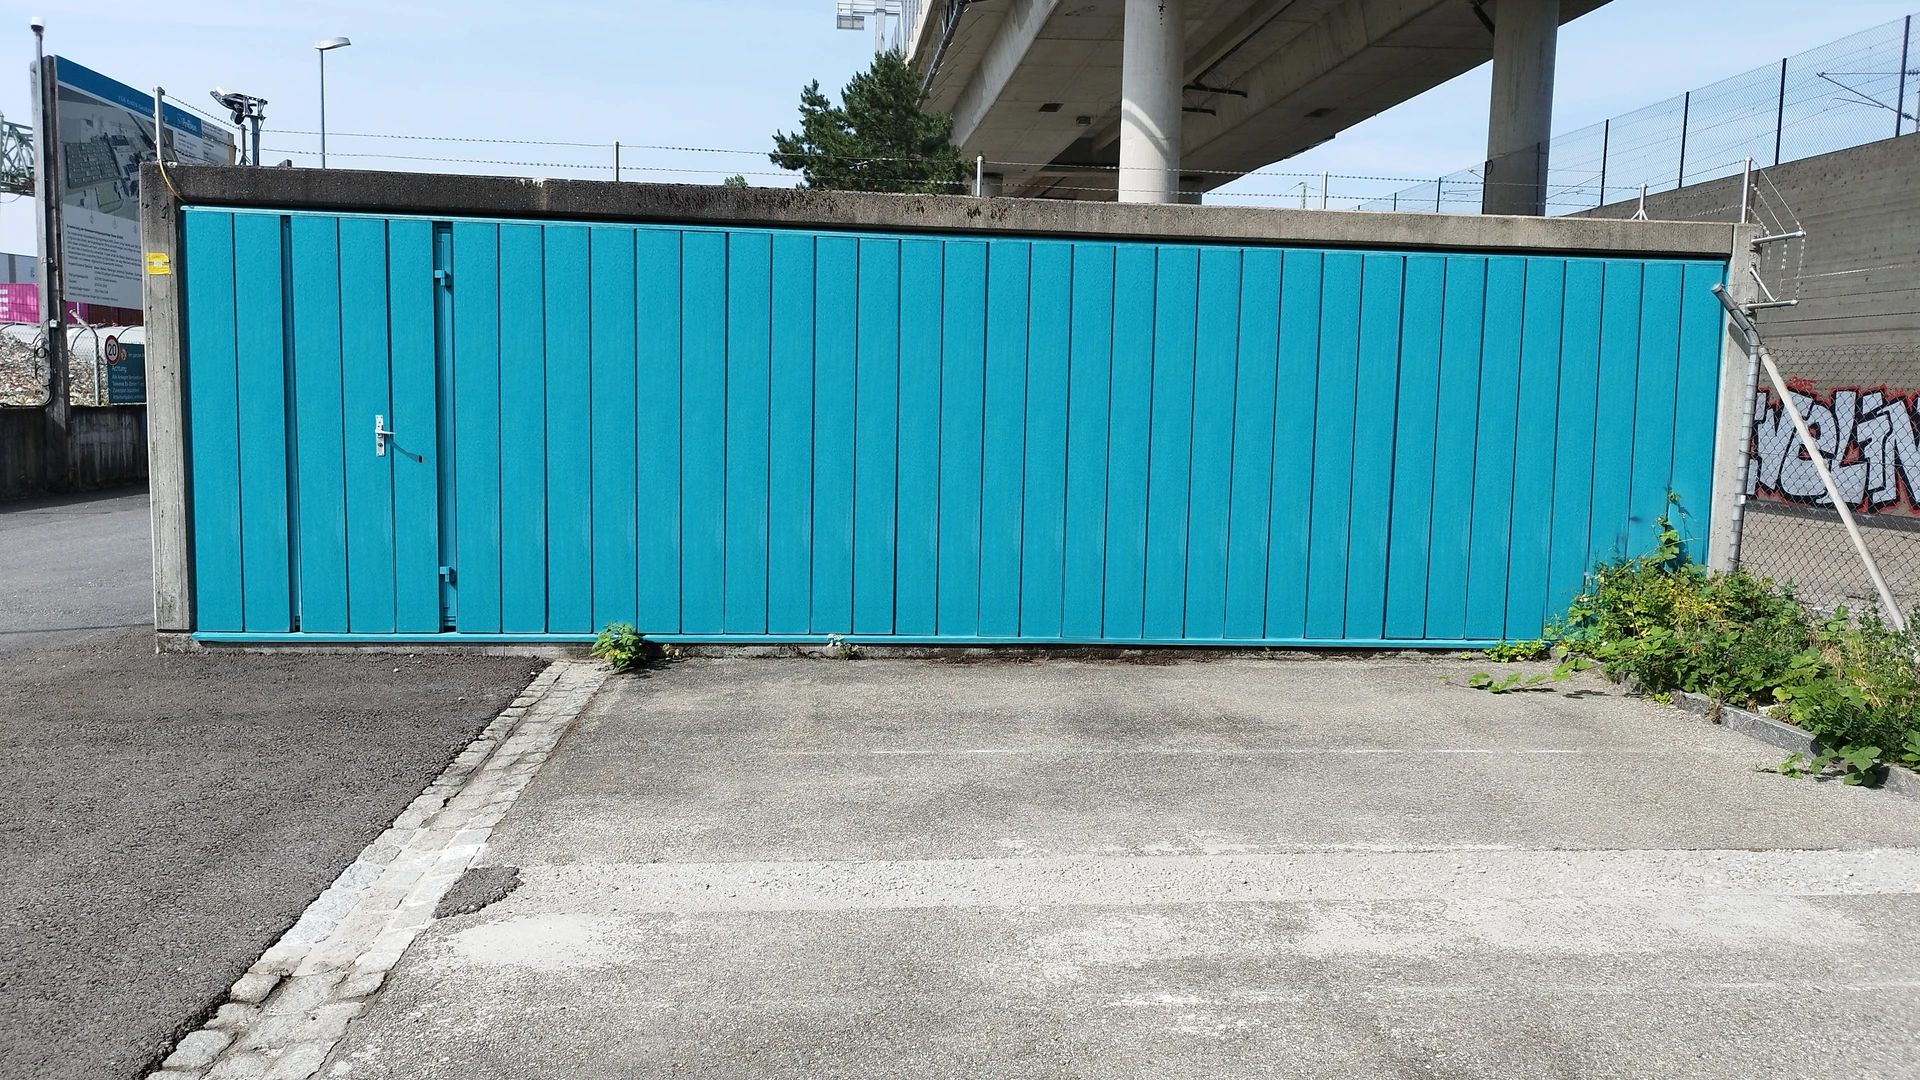
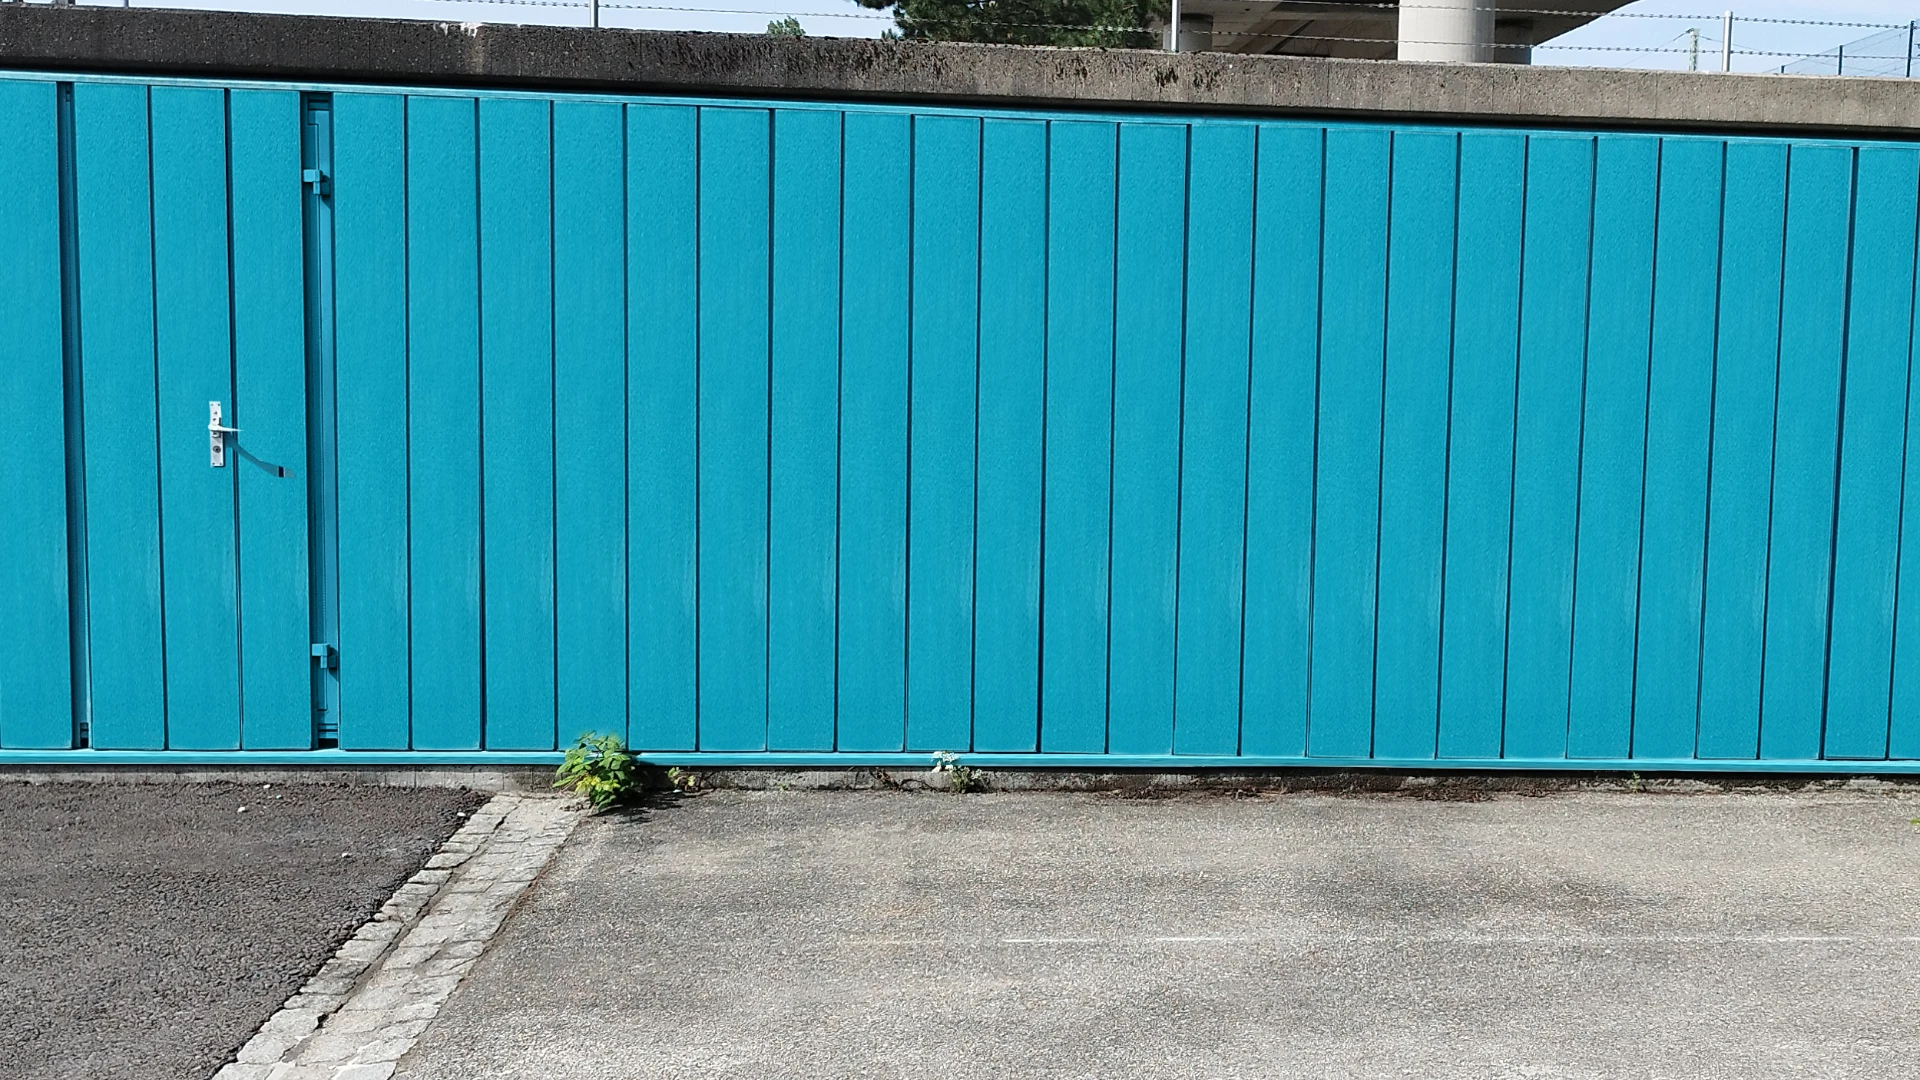
fix: publish reco112 through direct hero workflow

diff --git a/image-editor-config.js b/image-editor-config.js
@@ -199,6 +199,98 @@ window.RECOLORO_IMAGE_EDITOR_CONFIG = {
         "exportPreviewChecked": true,
         "technicalApproved": true
       }
+    },
+    "reco-112": {
+      "sourceOrientation": null,
+      "alignment": {
+        "reference": "after",
+        "simple": {
+          "before": {
+            "x": 0,
+            "y": 0,
+            "scale": 1,
+            "rotation": 0
+          },
+          "after": {
+            "x": 0,
+            "y": 0,
+            "scale": 1,
+            "rotation": 0
+          }
+        },
+        "perspective": {
+          "enabled": false,
+          "pointOrder": [
+            "top-left",
+            "top-right",
+            "bottom-right",
+            "bottom-left"
+          ],
+          "before": [
+            {
+              "x": 0.1,
+              "y": 0.1
+            },
+            {
+              "x": 0.9,
+              "y": 0.1
+            },
+            {
+              "x": 0.9,
+              "y": 0.9
+            },
+            {
+              "x": 0.1,
+              "y": 0.9
+            }
+          ],
+          "after": [
+            {
+              "x": 0.1,
+              "y": 0.1
+            },
+            {
+              "x": 0.9,
+              "y": 0.1
+            },
+            {
+              "x": 0.9,
+              "y": 0.9
+            },
+            {
+              "x": 0.1,
+              "y": 0.9
+            }
+          ],
+          "gridSize": 16
+        }
+      },
+      "anonymization": {
+        "masks": [
+          {
+            "id": "mask-1787690079339",
+            "label": "Neue Maske",
+            "type": "blur",
+            "scope": "both",
+            "x": 0.4243035660009906,
+            "y": 0.05383874816308781,
+            "width": 0.08695970694682098,
+            "height": 0.0996161404131928,
+            "color": "#687275",
+            "pixelSize": 24,
+            "blurRadius": 28
+          }
+        ]
+      },
+      "workflow": {
+        "orientationChecked": true,
+        "alignmentChecked": false,
+        "anonymizationChecked": true,
+        "desktopCropChecked": true,
+        "mobileCropChecked": true,
+        "exportPreviewChecked": true,
+        "technicalApproved": true
+      }
     }
   }
 };

diff --git a/bildausschnitt-editor.html b/bildausschnitt-editor.html
@@ -187,7 +187,7 @@
     <section class="panel workflow">
       <h2>Übernahme in die lokale Website</h2>
       <p>Am lokalen Pilotserver speichert der Hauptknopf die vier WebP-Dateien und beide Konfigurationen direkt in den richtigen Website-Pfaden. Ordnerfreigabe und Downloads sind nur noch bewusste Ausweichmöglichkeiten, falls der lokale Speicherdienst nicht erreichbar ist.</p>
-      <div class="actions"><button type="button" class="primary" id="saveApply">Direkt speichern und Website aktualisieren</button><button type="button" id="downloadFallback">Nur als Dateien herunterladen (Fallback)</button><button type="button" id="reset">Änderungen am ausgewählten Paar verwerfen</button></div>
+      <div class="actions"><button type="button" class="primary" id="saveApply">Speichern und in Website übernehmen</button><button type="button" id="downloadFallback">Dateien herunterladen (nur Notfall-Fallback)</button><button type="button" id="reset">Änderungen am ausgewählten Paar verwerfen</button></div>
       <div class="output" id="workflowOutput" aria-live="polite"></div>
     </section>
   </main>

diff --git a/bildausschnitt-editor.js b/bildausschnitt-editor.js
@@ -1256,10 +1256,11 @@ async function detectLocalSaveApi(silent = false) {
     localSaveAvailable = false;
   }
   elements.chooseRoot.hidden = localSaveAvailable;
+  elements.downloadFallback.hidden = localSaveAvailable;
   if (!silent) {
     setRootStatus(
       localSaveAvailable
-        ? 'Direkte lokale Speicherung bereit'
+        ? 'Direkte lokale Speicherung bereit · Hauptknopf schreibt ohne Downloads in die Website'
         : 'Direkte Speicherung nicht erreichbar – Ordnerfreigabe oder Download-Fallback verwenden',
       localSaveAvailable ? 'ok' : 'error',
     );

diff --git a/image-config.js b/image-config.js
@@ -276,14 +276,15 @@ window.RECOLORO_IMAGE_CONFIG = {
       },
       "crop": {
         "desktop": {
-          "x": 50,
-          "y": 50,
-          "zoom": 1
+          "x": 34,
+          "y": 45,
+          "zoom": 1.6,
+          "curtain": 0
         },
         "mobile": {
-          "x": 50,
-          "y": 50,
-          "zoom": 1
+          "x": 19,
+          "y": 38,
+          "zoom": 1.2
         }
       },
       "metadata": {
